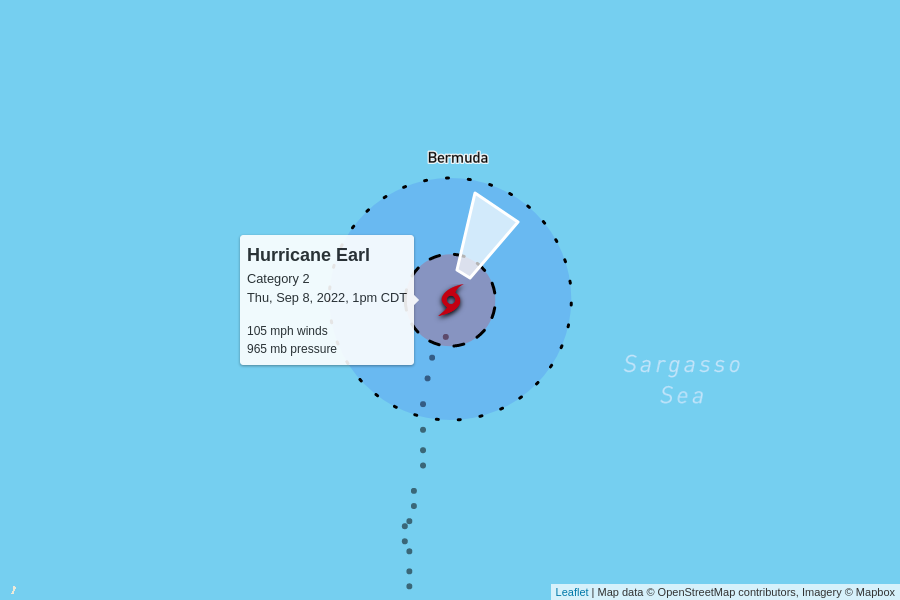
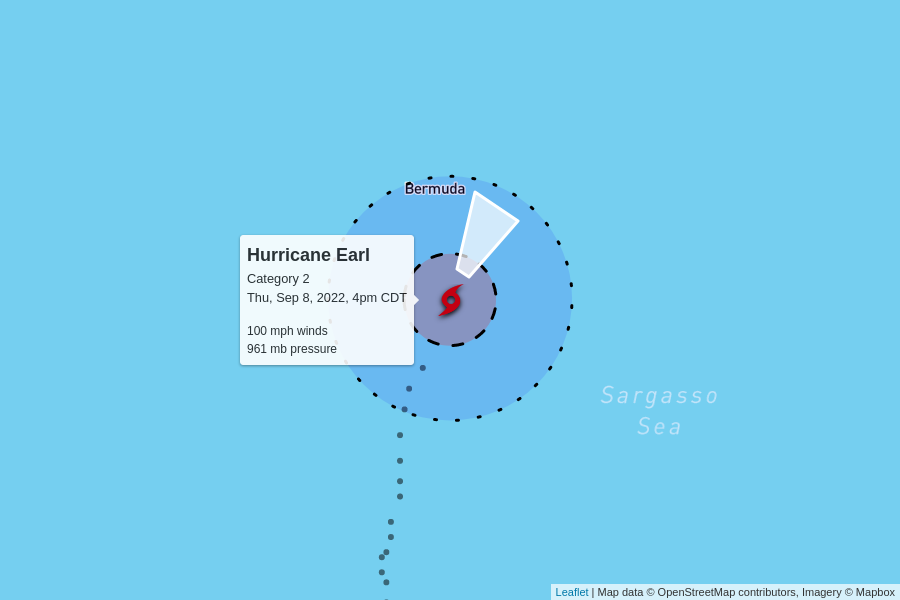
automatic update

diff --git a/docs/index.html b/docs/index.html
@@ -100,7 +100,7 @@
         <td colspan="6" class="storm category-2" >
           <h2>
             Hurricane Earl - Category 2
-            <p class="updated">last updated <span data-time>2022-09-08T18:00:00.000Z</span></p>
+            <p class="updated">last updated <span data-time>2022-09-08T21:00:00.000Z</span></p>
           </h2>
         </td>
       </tr>
@@ -115,10 +115,10 @@
       </tr>
       <tr>
         <td class="spacer"></td>
-        <td>105 mph</td>
-        <td>965 mb</td>
+        <td>100 mph</td>
+        <td>961 mb</td>
         <td>
-          13 mph to the north-northeast
+          16 mph to the north-northeast
           <br/>
           <span style="display: inline-block; font-size: 1.5em; transform: rotate(30deg);">↑</span>
         </td>
